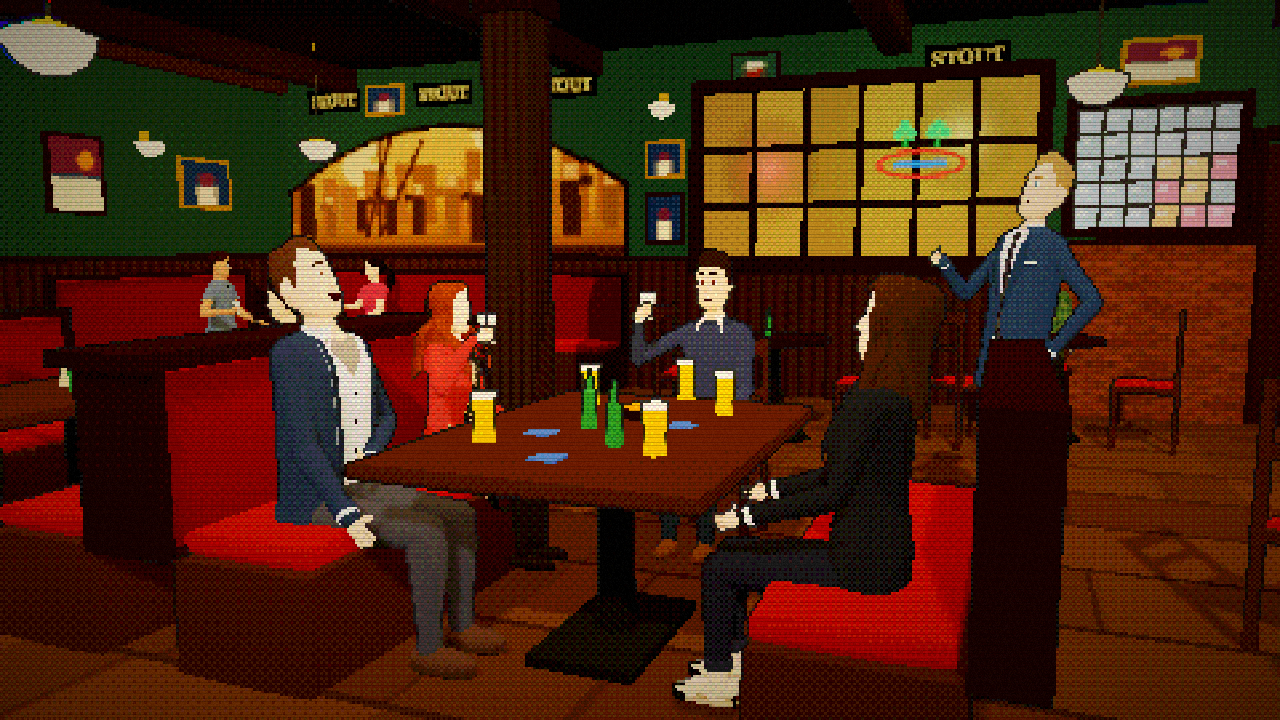
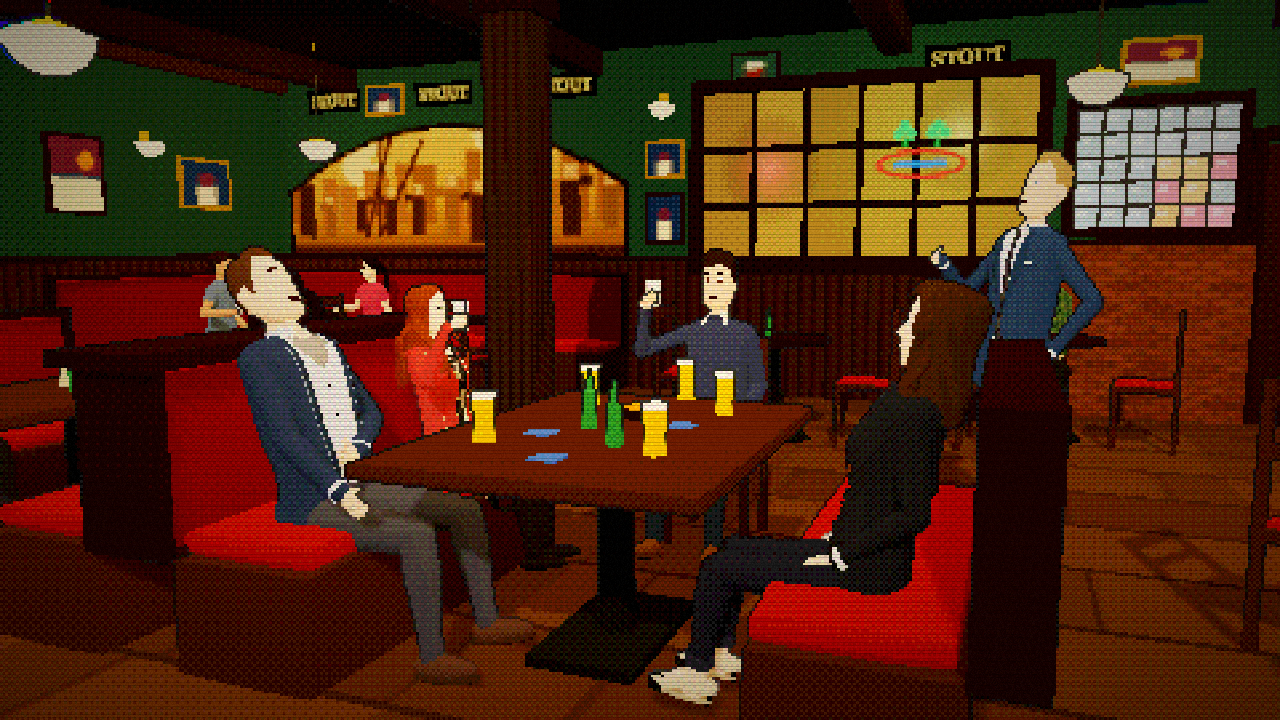
Improve seated character positioning
- Fit seated bodies against measured backrests
- Rest idle hands on thighs and refine seated leg poses
- Refresh the representative screenshot

diff --git a/src/world/actor.ts b/src/world/actor.ts
@@ -44,6 +44,15 @@ export const SCOOT_SPEED = 0.9;
 const SIT_STEP = 0.5;
 /** Room for the shins in front of a seat's front edge, so a deep couch doesn't swallow them. */
 const SHIN_ROOM = 0.07;
+/** Heights above a seat where the stage measures how far back its backrest is (`Mark.back`). */
+export const BACK_HEIGHTS = [0.12, 0.3, 0.5] as const;
+/** As far back as anyone sitting up leans into a backrest, in radians; a deeper couch leaves a gap behind them. */
+const RECLINE = 0.2;
+/** Where along the thigh a resting hand lies, furthest and nearest: nearer the hip when leaning back, so the
+ * elbow stays bent rather than the arm reaching straight out for the knee. */
+const LAP = [0.6, 0.15] as const;
+/** Which way a resting arm's elbow points (for the left arm): back, tucked in by the body. */
+const LAP_ELBOW = new THREE.Vector3(0.3, -0.2, -1);
 /** Clothing skinned between the hips and the spine. Camera occlusion rays refresh matrices with updateWorldMatrix,
  * which SkinnedMesh doesn't hook, so keep its attached bind inverse current there too. */
 class WaistMesh extends THREE.SkinnedMesh {
@@ -117,6 +126,10 @@ export class Actor {
   private browY0 = 0;
   private headH: number;
   private torsoLen: number;
+  /** For sitting: how far the back sticks out behind the spine, the hip joints out to the side, and the thighs up. */
+  private backDepth = 0;
+  private hipX = 0;
+  private thighR = 0;
 
   // --- state ---
   facing = 0;
@@ -126,13 +139,18 @@ export class Actor {
   private sitPose: SitPose = 'upright';
   /** How far in front of them the seat's front edge is, on seats deeper than a thigh. Kept while getting up. */
   private seatDepth: number | null = null;
+  /** How far behind them the backrest is, at each of `BACK_HEIGHTS` (Infinity: nothing there). Kept while getting up. */
+  private seatBack: readonly number[] | null = null;
+  /** Each hand's resting place on its thigh while sitting (hips space), and the arm pose that puts it there. */
+  private lap: { at: THREE.Vector3; pose: ArmPose }[] | null = null;
+  private lapRig = { sh: new THREE.Group(), el: new THREE.Group(), wrist: new THREE.Group() };
   private lapProp: THREE.Object3D | null = null;
   private path: THREE.Vector3[] = [];
   private scooting = false;
   /** Whether the walk ends in a seat (rather than standing on the spot). */
   private toSeat = false;
   /** The seat at the end of the walk: how high it is and which way it faces. */
-  private seatGoal: { height: number; facing: number; depth?: number } | null = null;
+  private seatGoal: { height: number; facing: number; depth?: number; back?: readonly number[] } | null = null;
   /** Seconds to stand and let someone by before walking on. */
   waiting = 0;
   private onArrive: (() => void) | null = null;
@@ -284,6 +302,9 @@ export class Actor {
     // ---- legs (the pelvis is shaped to the torso below)
     const hipR = (fem ? 0.168 : 0.156) * bx;
     const hx = (fem ? 0.088 : 0.085) * bx;
+    this.hipX = hx;
+    this.thighR = 0.07 * bx;
+    this.backDepth = 0.125 * bz;
     for (const side of [1, -1]) {
       const hip = side > 0 ? this.lHip : this.rHip;
       const knee = side > 0 ? this.lKnee : this.rKnee;
@@ -1180,7 +1201,7 @@ export class Actor {
     return this.seatHeight !== null;
   }
 
-  place(pos: THREE.Vector3, facing: number, seatHeight: number | null, opts: { pose?: SitPose; prop?: THREE.Object3D; depth?: number } = {}) {
+  place(pos: THREE.Vector3, facing: number, seatHeight: number | null, opts: { pose?: SitPose; prop?: THREE.Object3D; depth?: number; back?: readonly number[] } = {}) {
     this.root.position.copy(pos);
     this.root.rotation.y = facing;
     this.facing = this.targetFacing = facing;
@@ -1188,6 +1209,7 @@ export class Actor {
     this.sitBlend = seatHeight !== null ? 1 : 0;
     this.sitPose = seatHeight !== null ? opts.pose ?? 'upright' : 'upright';
     this.seatDepth = seatHeight !== null ? opts.depth ?? null : null;
+    this.seatBack = seatHeight !== null ? opts.back ?? null : null;
     this.setLapProp(opts.prop ?? null);
     this.path = [];
     this.scooting = false;
@@ -1211,13 +1233,13 @@ export class Actor {
   }
 
   /** Walk along waypoints; resolves when arrived. With `scoot`, slide along them sitting down (there's no standing up in a car). */
-  walk(points: THREE.Vector3[], final: { facing: number; seat: number | null; scoot?: boolean; pose?: SitPose; prop?: THREE.Object3D; depth?: number }) {
+  walk(points: THREE.Vector3[], final: { facing: number; seat: number | null; scoot?: boolean; pose?: SitPose; prop?: THREE.Object3D; depth?: number; back?: readonly number[] }) {
     return new Promise<void>((resolve) => {
       if (this.onArrive) this.onArrive();
       this.path = points.map((p) => p.clone());
       this.scooting = !!final.scoot;
       this.toSeat = final.seat !== null;
-      this.seatGoal = final.seat !== null && !final.scoot ? { height: final.seat, facing: final.facing, depth: final.depth } : null;
+      this.seatGoal = final.seat !== null && !final.scoot ? { height: final.seat, facing: final.facing, depth: final.depth, back: final.back } : null;
       this.waiting = 0;
       this.seatHeight = final.scoot ? final.seat ?? this.seatHeight ?? 0.42 : null; // stand up first
       this.sitPose = 'upright';
@@ -1229,7 +1251,10 @@ export class Actor {
         this.targetFacing = final.facing;
         this.seatHeight = final.seat;
         this.sitPose = final.pose ?? 'upright';
-        if (final.seat !== null) this.seatDepth = final.depth ?? null;
+        if (final.seat !== null) {
+          this.seatDepth = final.depth ?? null;
+          this.seatBack = final.back ?? null;
+        }
         this.setLapProp(final.prop ?? null);
         resolve();
       };
@@ -1374,7 +1399,10 @@ export class Actor {
     const settling = !!seatAt && Math.hypot(seatAt.x - pos.x, seatAt.z - pos.z) <= SIT_STEP + 0.01;
     const turned = settling && Math.abs(angleDiff(this.facing, this.seatGoal!.facing)) < 0.35;
     const sitting = this.seatHeight !== null || turned;
-    if (turned) this.seatDepth = this.seatGoal!.depth ?? null;
+    if (turned) {
+      this.seatDepth = this.seatGoal!.depth ?? null;
+      this.seatBack = this.seatGoal!.back ?? null;
+    }
     this.sitBlend += ((sitting ? 1 : 0) - this.sitBlend) * damp(7, dt);
     let moving = false;
     if (settling) {
@@ -1435,16 +1463,21 @@ export class Actor {
     const sb = this.sitBlend;
     const s = this.seed;
     const ws = w * this.stride;
+    const seat = this.seatHeight ?? this.seatGoal?.height ?? 0.45;
+    // Sitting, the thighs lie along the seat and the shins go down to the floor, the feet a little out in front
+    // (further on a low seat, rather than through the floor) and one a bit ahead of the other; men's knees apart.
+    const reach = Math.max(0.12, Math.acos(clamp((seat + 0.02) / this.thigh, 0, 1)));
+    const ahead = 0.08 * Math.sin(s * 3.7);
+    const splay = this.def.look.female ? 0.03 : 0.1;
     target.lHip = lerp(-Math.sin(ph) * 0.55 * ws, -Math.PI / 2, sb);
     target.rHip = lerp(Math.sin(ph) * 0.55 * ws, -Math.PI / 2, sb);
-    target.lKnee = lerp(Math.max(0, Math.cos(ph)) * 0.9 * ws, Math.PI / 2, sb);
-    target.rKnee = lerp(Math.max(0, -Math.cos(ph)) * 0.9 * ws, Math.PI / 2, sb);
-    const seat = this.seatHeight ?? this.seatGoal?.height ?? 0.45;
+    target.lKnee = lerp(Math.max(0, Math.cos(ph)) * 0.9 * ws, Math.PI / 2 - reach - Math.max(0, ahead), sb);
+    target.rKnee = lerp(Math.max(0, -Math.cos(ph)) * 0.9 * ws, Math.PI / 2 - reach - Math.max(0, -ahead), sb);
+    target.lHipZ = splay * sb;
+    target.rHipZ = -splay * sb;
     this.hips.position.y = lerp(this.legLen + Math.abs(Math.cos(ph)) * 0.035 * w, seat + 0.06, sb) + this.bounce;
-    // shift hips back onto the seat when sitting, but on a deep seat only as far as keeps the knees over its
-    // front edge: shorter legs perch further forward, rather than hanging down inside the couch
-    const perch = this.seatDepth === null || this.sitPose === 'cross_legged' ? -0.12 : this.seatDepth + SHIN_ROOM - this.thigh;
-    this.hips.position.z = Math.max(-0.12, perch) * sb;
+    const fit = this.seatFit();
+    this.hips.position.z = fit.z * sb;
 
     // arms: rest pose / walk swing / sitting
     target.lSh = [Math.sin(ph) * 0.45 * w - 0.35 * sb, 0, 0.09];
@@ -1453,8 +1486,15 @@ export class Actor {
     target.rEl = -0.15 - 0.25 * w - 0.75 * sb;
 
     // idle life
-    target.spine = [0.02 + noise1(t * 0.3 + s) * 0.02, noise1(t * 0.2 + s * 2) * 0.04, noise1(t * 0.25 + s) * 0.025];
+    target.spine = [0.02 + noise1(t * 0.3 + s) * 0.02 - fit.recline * sb, noise1(t * 0.2 + s * 2) * 0.04, noise1(t * 0.25 + s) * 0.025];
     this.spine.scale.y = 1 + Math.sin(t * 1.6 + s) * 0.008;
+    // sitting up, the hands rest on the thighs
+    this.lap = null;
+    if (this.sitPose === 'upright' && sb > 0.01) {
+      this.lap = [this.lapArm(1, target.spine, splay), this.lapArm(-1, target.spine, splay)];
+      this.arm(target, 1, this.lap[0].pose, sb);
+      this.arm(target, -1, this.lap[1].pose, sb);
+    }
 
     if (this.sitPose === 'driving') {
       target.lSh = [-1.15 * sb, 0, 0.05];
@@ -1533,6 +1573,8 @@ export class Actor {
     for (const key of Object.keys(fTarget) as (keyof Face)[]) this.face[key] += (fTarget[key] - this.face[key]) * k;
     const f = this.face;
     target.head = [f.headDown, 0, f.headTilt];
+    // leaning back, the chin comes forward to keep looking ahead
+    target.head[0] += 0.8 * fit.recline * sb;
     // a slouch tips the head back; chin comes forward again to keep looking ahead
     if (this.sitPose === 'sprawl') {
       target.head[0] += 0.34 * sb;
@@ -1868,13 +1910,13 @@ export class Actor {
       return new THREE.Quaternion().setFromAxisAngle(v(0, 1, 0), side * (limited - a));
     };
     const headPoint = (x: number, y: number, z: number) => this.spine.worldToLocal(this.head.localToWorld(v(x * this.headH, y * this.headH * (this.def.look.face?.long ?? 1), z * this.headH)));
-    const palm = (side: number, position: THREE.Vector3, fingers: THREE.Vector3, normal: THREE.Vector3, weight = e, kind: HandShape = 'open', onHead = false) => {
+    const palm = (side: number, position: THREE.Vector3, fingers: THREE.Vector3, normal: THREE.Vector3, weight = e, kind: HandShape = 'open', onHead = false, pole = v(side * 0.75, -1, 0.12)) => {
       const hand = side > 0 ? this.lHand : this.rHand;
       const sh = side > 0 ? this.lSh : this.rSh, el = side > 0 ? this.lEl : this.rEl;
       const q = handOrientation(side, fingers, normal);
       if (onHead) q.premultiply(headQ);
       const target = position.clone().sub(v(0, -0.03 * scale, 0).applyQuaternion(q));
-      reachArm(sh, el, hand.wrist, target, v(side * 0.75, -1, 0.12), weight);
+      reachArm(sh, el, hand.wrist, target, pole, weight);
       const local = sh.quaternion.clone().multiply(el.quaternion).invert().multiply(q);
       hand.wrist.quaternion.slerp(local, weight);
       if (weight > 0.08) shape(side, kind);
@@ -1899,6 +1941,19 @@ export class Actor {
       for (const side of [1, -1]) if (!(busy && side < 0))
         bodyPalm(side, side * 0.025, 0.18, 0.22 + side * 0.016, [0, 0.25, 1], [-side, 0, 0], weight, 'grip');
     };
+
+    // Sitting, a hand with nothing to do lies on its thigh, palm down, for as long as the arm stays (near enough)
+    // in its lap pose: it lifts off as a gesture or a talking hand takes the arm away.
+    if (this.lap) {
+      const hipsQ = spineQ.clone().invert().multiply(this.hips.getWorldQuaternion(new THREE.Quaternion()));
+      const p = this.pose;
+      this.lap.forEach(({ at, pose }, i) => {
+        const side = i ? -1 : 1, sh = side > 0 ? p.lSh : p.rSh;
+        const off = Math.max(Math.abs(sh[0] - pose[0]), Math.abs(sh[1] - side * pose[1]), Math.abs(sh[2] - side * pose[2]), Math.abs((side > 0 ? p.lEl : p.rEl) - pose[3]));
+        const weight = this.sitBlend * (1 - smoothstep(0.06, 0.4, off));
+        if (weight > 0.01) palm(side, this.spine.worldToLocal(this.hips.localToWorld(at.clone())), v(-side * 0.2, -0.15, 1).applyQuaternion(hipsQ), v(0, -1, 0).applyQuaternion(hipsQ), weight, 'relaxed', false, LAP_ELBOW.clone().setX(side * LAP_ELBOW.x).applyQuaternion(hipsQ));
+      });
+    }
 
     // Resting emotion, habitual movements and spoken accents use the same contacts.
     if (!g && grip !== 'arms') {
@@ -2193,6 +2248,53 @@ export class Actor {
       tear.mesh.position.set(tear.x, y, tear.z(tear.x, y));
       tear.mesh.scale.setScalar(1 - 0.45 * c);
     }
+  }
+
+  /**
+   * Where the hips go on the seat, and how far back the body leans. On a deep seat the knees stay over its front
+   * edge, so shorter legs perch further forward rather than hanging down inside the couch; the seat of the pants
+   * stays out of the backrest; then, sitting up, they lean back into the backrest as far as is comfortable. With
+   * nothing to lean on (a stool, a bench), they sit a touch forward instead.
+   */
+  private seatFit() {
+    const back = this.seatBack;
+    const perch = this.seatDepth === null || this.sitPose === 'cross_legged' ? -0.12 : this.seatDepth + SHIN_ROOM - this.thigh;
+    const z = Math.max(-0.12, perch, back ? this.backDepth - Math.min(...back) : -Infinity);
+    if (this.sitPose !== 'upright') return { z, recline: 0 };
+    if (!back || back.slice(1).every((d) => d === Infinity)) return { z, recline: -0.05 };
+    let recline = RECLINE;
+    // (the hips are 6cm up off the seat)
+    BACK_HEIGHTS.forEach((h, i) => {
+      if (i > 0 && back[i] < Infinity) recline = Math.min(recline, Math.asin(clamp((back[i] + z - this.backDepth) / (h - 0.06), -1, 1)));
+    });
+    return { z, recline: Math.max(0, recline) };
+  }
+
+  /**
+   * The arm pose (as in `ARM`) that rests a hand on its thigh, and where on the thigh (in hips space): solved for
+   * this body, how far apart the knees are and how far back it leans, so the hand lies on the leg.
+   */
+  private lapArm(side: number, spine: V3, splay: number) {
+    const s = this.height / 1.8;
+    const fingers = new THREE.Vector3(-side * 0.2, -0.15, 1).normalize();
+    const lean = new THREE.Quaternion().setFromEuler(new THREE.Euler(...spine)), into = lean.clone().invert();
+    const { sh, el, wrist } = this.lapRig;
+    sh.position.copy((side > 0 ? this.lSh : this.rSh).position);
+    el.position.y = (side > 0 ? this.lEl : this.rEl).position.y;
+    wrist.position.y = (side > 0 ? this.lHand : this.rHand).wrist.position.y;
+    const shoulder = sh.position.clone().applyQuaternion(lean), comfy = 0.88 * -(el.position.y + wrist.position.y);
+    const at = new THREE.Vector3();
+    for (let f = LAP[0]; f >= LAP[1]; f -= 0.05) {
+      const along = f * this.thigh;
+      // (up by the hip the hand goes round the outside of the thigh, not into the crotch)
+      at.set(side * (this.hipX + Math.sin(splay) * along + 0.012 + 0.1 * (LAP[0] - f)), -0.04 + this.thighR + 0.018 * s, Math.cos(splay) * along);
+      if (at.distanceTo(shoulder) <= comfy) break;
+    }
+    sh.quaternion.identity();
+    el.rotation.x = 0;
+    reachArm(sh, el, wrist, at.clone().addScaledVector(fingers, -0.03 * s).applyQuaternion(into), LAP_ELBOW.clone().setX(side * LAP_ELBOW.x).applyQuaternion(into), 1);
+    const e = new THREE.Euler().setFromQuaternion(sh.quaternion);
+    return { at, pose: [e.x, side * e.y, side * e.z, el.rotation.x] as ArmPose };
   }
 
   /** Pull an arm toward a pose (given for the left arm; the right one mirrors it). */

diff --git a/src/show/stage.ts b/src/show/stage.ts
@@ -1,5 +1,5 @@
 import * as THREE from 'three';
-import { Actor } from '../world/actor';
+import { Actor, BACK_HEIGHTS } from '../world/actor';
 import { CHARACTERS, dressed, outfitAt, setGuests, type CharacterDef } from '../world/characters';
 import type { StageSet, Mark, Door } from '../world/sets/common';
 import { buildSets } from '../world/sets';
@@ -27,6 +27,24 @@ const DOORWAY = {
   push: 0.75,
 };
 
+/** How far behind each seat its backrest is, at each of `BACK_HEIGHTS`, so whoever sits there can lean back into it. */
+function measureBacks(set: StageSet, meshes: THREE.Mesh[]) {
+  set.group.updateMatrixWorld(true);
+  const marks = Object.values(set.marks);
+  const props = marks.flatMap((m) => m.prop ?? []);
+  const solid = meshes.filter((o) => !o.userData.cameraBackdrop && !props.some((p) => p === o || p.getObjectById(o.id)));
+  const ray = new THREE.Raycaster();
+  ray.far = 0.9;
+  for (const m of marks) {
+    if (m.seat === null) continue;
+    const behind = new THREE.Vector3(-Math.sin(m.facing), 0, -Math.cos(m.facing));
+    m.back = BACK_HEIGHTS.map((h) => {
+      ray.set(new THREE.Vector3(m.pos.x, m.pos.y + m.seat! + h, m.pos.z), behind);
+      return ray.intersectObjects(solid, false)[0]?.distance ?? Infinity;
+    });
+  }
+}
+
 export interface FrozenScene {
   set: StageSet;
   time: TimeOfDay;
@@ -36,7 +54,7 @@ export interface FrozenScene {
   background: Set<CharacterId>;
   outfits: Map<CharacterId, Outfit>;
   actors: {
-    id: CharacterId; pos: THREE.Vector3; facing: number; seat: number | null; pose?: Mark['pose']; prop?: THREE.Object3D; depth?: number;
+    id: CharacterId; pos: THREE.Vector3; facing: number; seat: number | null; pose?: Mark['pose']; prop?: THREE.Object3D; depth?: number; back?: readonly number[];
     emotion: Actor['emotion']; holdingGlass: boolean; held: Prop | null;
   }[];
 }
@@ -92,6 +110,7 @@ export class Stage {
       const meshes: THREE.Mesh[] = [];
       s.group.traverse((o) => { if (o instanceof THREE.Mesh) meshes.push(o); });
       this.scenery.set(s, meshes);
+      measureBacks(s, meshes);
     }
     for (const id of CHARACTER_IDS) {
       const a = new Actor(CHARACTERS[id]);
@@ -222,7 +241,7 @@ export class Stage {
         const pos = a.isWalking ? (a.remainingPath.at(-1) ?? a.position.clone()) : a.position.clone();
         return {
           id, pos, facing: mark && (a.isWalking || mark.seat !== null) ? mark.facing : a.targetFacing,
-          seat: mark?.seat ?? null, pose: mark?.pose, prop: mark?.prop, depth: mark?.depth, emotion: a.emotion, holdingGlass: a.holdingGlass,
+          seat: mark?.seat ?? null, pose: mark?.pose, prop: mark?.prop, depth: mark?.depth, back: mark?.back, emotion: a.emotion, holdingGlass: a.holdingGlass,
           held: a.prop,
         };
       }),
@@ -239,7 +258,7 @@ export class Stage {
     for (const id of f.background) this.backgroundIds.add(id);
     for (const s of f.actors) {
       const a = this.actors[s.id];
-      a.place(s.pos, s.facing, s.seat, { pose: s.pose, prop: s.prop, depth: s.depth });
+      a.place(s.pos, s.facing, s.seat, { pose: s.pose, prop: s.prop, depth: s.depth, back: s.back });
       a.setEmotion(s.emotion);
       a.holdingGlass = s.holdingGlass;
       a.hold(s.held);
@@ -447,7 +466,7 @@ export class Stage {
     pos.y = this.floorY(pos.x, pos.z);
     this.crowd.forget(a);
     this.leaveDoor(id);
-    a.place(pos, m.facing, m.seat, { pose: m.pose, prop: m.prop, depth: m.depth });
+    a.place(pos, m.facing, m.seat, { pose: m.pose, prop: m.prop, depth: m.depth, back: m.back });
     a.root.visible = true;
     this.occupy(id, name);
   }
@@ -469,7 +488,7 @@ export class Stage {
     for (const id of KIDS) {
       const m = this.sets.future.marks[KID_MARKS[id]];
       const a = this.actors[id];
-      a.place(m.pos.clone(), m.facing, m.seat, { pose: m.pose, prop: m.prop, depth: m.depth });
+      a.place(m.pos.clone(), m.facing, m.seat, { pose: m.pose, prop: m.prop, depth: m.depth, back: m.back });
       a.setEmotion('bored');
       a.root.visible = true;
     }
@@ -582,7 +601,7 @@ export class Stage {
     const path = (!this.current.seated && (walkRoute(this.current, leaving, fromNode, arriving, node, people) || walkRoute(this.current, leaving, fromNode, arriving, node)))
       || [...leaving, ...route, ...arriving];
     const m = this.current.marks[name];
-    return a.walk(joinRoute(path).slice(1), { facing, seat, scoot: this.current.seated, pose: m?.pose, prop: m?.prop, depth: m?.depth });
+    return a.walk(joinRoute(path).slice(1), { facing, seat, scoot: this.current.seated, pose: m?.pose, prop: m?.prop, depth: m?.depth, back: m?.back });
   }
 
   /** The free seat closest to someone (for sliding over to them in a car). */
@@ -830,7 +849,7 @@ export class Stage {
     const id = this.onStageIds().find((id) => this.actors[id] === a);
     const m = this.current.marks[(id && this.actorMark.get(id)) ?? ''];
     if (!m || m.seat === null) return null;
-    return { pos: m.pos.clone(), approach: m.approach?.clone(), facing: m.facing, height: m.seat, pose: m.pose, prop: m.prop, depth: m.depth };
+    return { pos: m.pos.clone(), approach: m.approach?.clone(), facing: m.facing, height: m.seat, pose: m.pose, prop: m.prop, depth: m.depth, back: m.back };
   }
 
   /** Where everyone else on the set is standing or sitting, or will be once they've got where they're going. */

diff --git a/src/show/crowd.ts b/src/show/crowd.ts
@@ -118,7 +118,7 @@ function giveWayFor(set: StageSet, me: Body, others: Body[], hit: Bump): { plan:
 }
 
 /** A seat someone gets up out of to let a walker by, and back into after. */
-export interface Seat { pos: THREE.Vector3; approach?: THREE.Vector3; facing: number; height: number; pose?: SitPose; prop?: THREE.Object3D; depth?: number }
+export interface Seat { pos: THREE.Vector3; approach?: THREE.Vector3; facing: number; height: number; pose?: SitPose; prop?: THREE.Object3D; depth?: number; back?: readonly number[] }
 
 /** Someone who stepped out of a walker's way, and how they get back once the walker is past. */
 interface Aside { walker: Actor; back: THREE.Vector3[]; final: Parameters<Actor['walk']>[1] }
@@ -217,7 +217,7 @@ export class Crowd {
       const facing = them.actor.facing;
       void them.actor.walk(path, { facing, seat: null });
       this.aside.set(them.actor, seat
-        ? { walker: me.actor, back: [up!, seat.pos.clone()], final: { facing: seat.facing, seat: seat.height, pose: seat.pose, prop: seat.prop, depth: seat.depth } }
+        ? { walker: me.actor, back: [up!, seat.pos.clone()], final: { facing: seat.facing, seat: seat.height, pose: seat.pose, prop: seat.prop, depth: seat.depth, back: seat.back } }
         : { walker: me.actor, back: [home.clone()], final: { facing, seat: null } });
       return true;
     }

diff --git a/src/world/sets/common.ts b/src/world/sets/common.ts
@@ -14,6 +14,7 @@ export interface Mark {
   pose?: SitPose; // how to sit here
   prop?: THREE.Object3D; // held in the lap by whoever sits here
   depth?: number; // a deep couch: how far forward of the mark its front edge is, so knees clear it
+  back?: readonly number[]; // how far behind the mark the backrest is, at each of BACK_HEIGHTS (measured by the stage)
 }
 
 export interface Shot {
